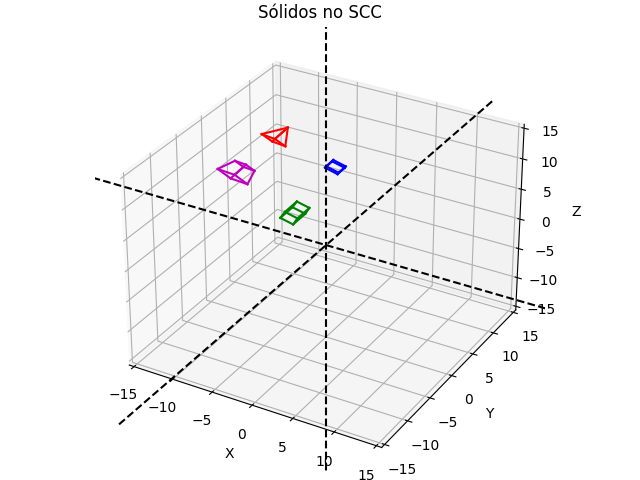
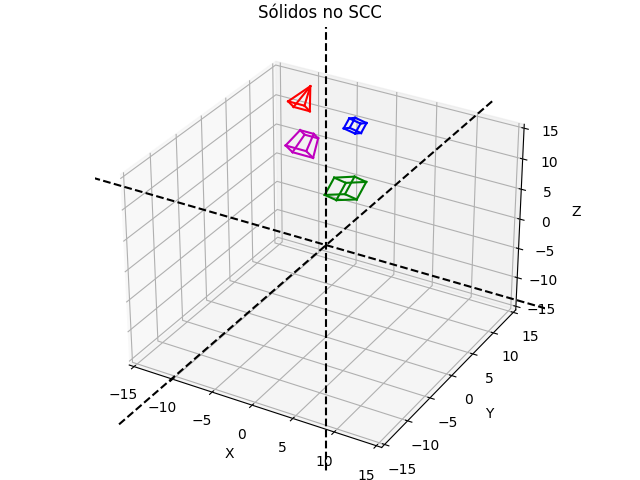
conclusão questão 3

Changed region(s): [[0.4062, 0.1562, 0.5938, 0.4688], [0.3438, 0.3125, 0.4062, 0.4062], [0.5312, 0.2188, 0.5938, 0.2812]]

diff --git a/trabalho2/questao3.py b/trabalho2/questao3.py
@@ -14,52 +14,53 @@ c. Apresente os diversos sólidos neste sistema de coordenadas em 3D.
 from typing import List
 
 import numpy as np
-from matplotlib import pyplot as plt
 from numpy import ndarray
 
 from trabalho2.questao2 import cubo, piramideBaseQuadrada, paralelepipedo, troncoPiramide
 from trabalho2.src.PlotaSolido import plota_solidos
 from trabalho2.src.Solido import Solido
 
-# Foi escolhido o octante V (+, +, -)
-# Parâmetros Extrínsecos da Câmera
-# Ponto de origem, em relação ao SCM, da câmera
-origem_camera = np.array([10, 10, -10])
 
+def centro_de_massa_dos_solidos(solidos: List[Solido]) -> ndarray:
+    """
+    :param solidos: lista de sólidos
+    :return: posição do centro de massa dos sólidos da lista como [x, y, z]
+    """
+    centro_de_massa = np.array([0.0, 0.0, 0.0])  # x, y, z
+
+    for solido in solidos:
+        centro_de_massa += np.array(solido.centro_de_massa())
+    centro_de_massa /= len(solidos)
+    return centro_de_massa
+
+
+# Sólidos da questão 2
 solidos = list()
 solidos.append(cubo)
 solidos.append(piramideBaseQuadrada)
 solidos.append(paralelepipedo)
 solidos.append(troncoPiramide)
 
-
-def centro_de_massa_dos_solidos(solidos: List[Solido]) -> ndarray:
-    """
-    :param solidos: lista de sólidos
-    :return: posição do centro de massa dos sólidos da lista
-    """
-    centro_de_massa = np.array([0.0, 0.0, 0.0])  # x, y, z
-
-    for solido in solidos:
-        centro_de_massa += np.array(solido.centro_de_massa())
-
-    centro_de_massa /= len(solidos)
-    return centro_de_massa
-
-
 # ponto médio dos sólidos
 cm_solidos = centro_de_massa_dos_solidos(solidos)
 
+# Foi escolhido o octante V (+, +, -)
+# Parâmetros Extrínsecos da Câmera
+# Ponto de origem, em relação ao SCM, da câmera
+origem_camera = np.array([10, 10, -10])
 # n, v e u devem ser normalizados
-# vetor normal normalizado
-n = (cm_solidos - origem_camera) / np.linalg.norm(cm_solidos - origem_camera)
-up = np.array([0, 1, 0])  # vetor up, que indica a direção a ser usada como direção vertical da imagem
-v = up - (np.dot(up, n) / np.linalg.norm(n))
-v = v/np.linalg.norm(v)
-print(np.dot(n, v))
+n = (cm_solidos - origem_camera)
+n_norm = np.sqrt(sum(n ** 2))
 
-u = np.cross(v, n)
-u = u/np.linalg.norm(u)
+up = np.array([0, 0, 1])  # vetor up, que indica a direção a ser usada como direção vertical da imagem
+
+v = up - (np.dot(up, n) / n_norm ** 2) * n
+
+n = n / n_norm  # normalizando o vetor n
+v = v / np.sqrt(sum(v ** 2))  # normalizando o vetor v
+print(np.dot(n, v))  # como v e n devem ser ortogonais, então o produto escalar deve ser próximos de 0
+
+u = np.cross(v, n)  # como v e n estão normalizados, u também está normalizado
 
 # A matriz de translação é obtida como a matriz que leva a posição da câmera p = (xc, yc, zc) para a origem
 T = np.matrix([
@@ -86,15 +87,22 @@ troncoPiramide.multiplicacao_por_matriz(V)
 
 plota_solidos(solidos, titulo="Sólidos no SCC")
 
-fig = plt.figure(constrained_layout=True)
-ax = fig.add_subplot(111, projection='3d')
+# Debug pra ver a posição dos vetores no espaço
+# fig = plt.figure(constrained_layout=True)
+# ax = fig.add_subplot(111, projection='3d')
+#
+# ax.plot([0, u[0]], [0, u[1]], [0, u[2]], color='b', linestyle='dashed')
+# ax.plot([0, v[0]], [0, v[1]], [0, v[2]], color='r', linestyle='dashed')
+# ax.plot([0, n[0]], [0, n[1]], [0, n[2]], color='g', linestyle='dashed')
+# ax.plot([0, up[0]], [0, up[1]], [0, up[2]], color='k', linestyle='dashed')
+# ax.set_xlim(-1, 1)
+# ax.set_ylim(-1, 1)
+# ax.set_zlim(-1, 1)
+#
+# plt.show()
 
-ax.plot([0, u[0]], [0, u[1]], [0, u[2]], color='b', linestyle='dashed')
-ax.plot([0, v[0]], [0, v[1]], [0, v[2]], color='r', linestyle='dashed')
-ax.plot([0, n[0]], [0, n[1]], [0, n[2]], color='g', linestyle='dashed')
-ax.plot([0, up[0]], [0, up[1]], [0, up[2]], color='k', linestyle='dashed')
-ax.set_xlim(-1, 1)
-ax.set_ylim(-1, 1)
-ax.set_zlim(-1, 1)
-
-plt.show()
+# Debug mostrando que a origem da câmera agora é [0, 0, 0]
+# m_origem = np.matrix([10, 10, -10, 1])
+# m_origem = m_origem.transpose()
+#
+# print(V*m_origem)
